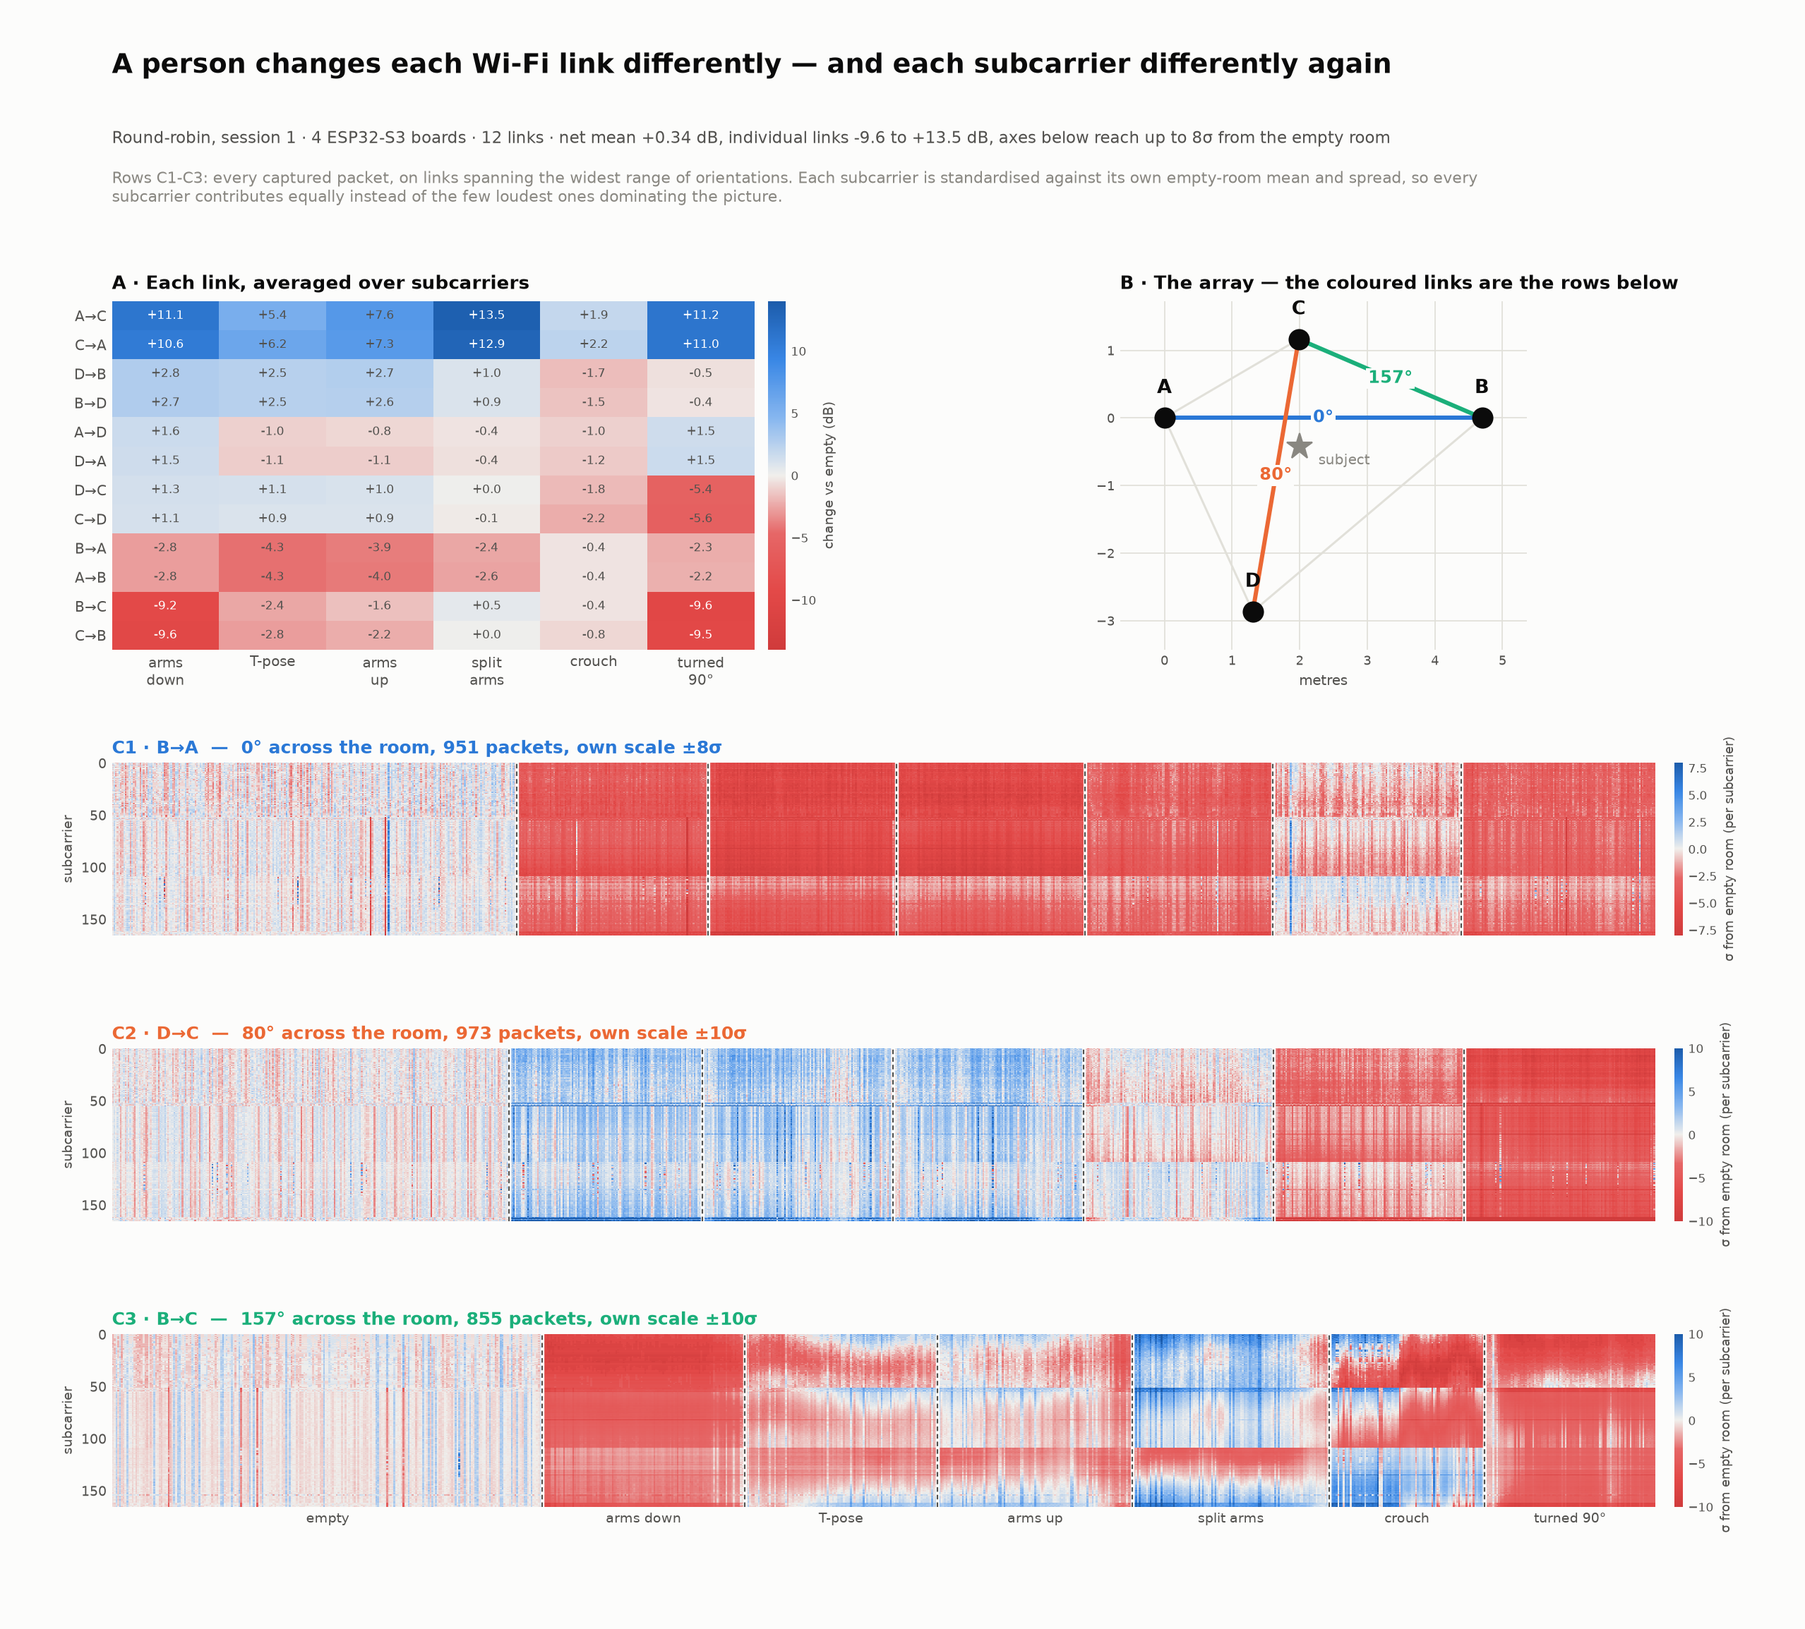
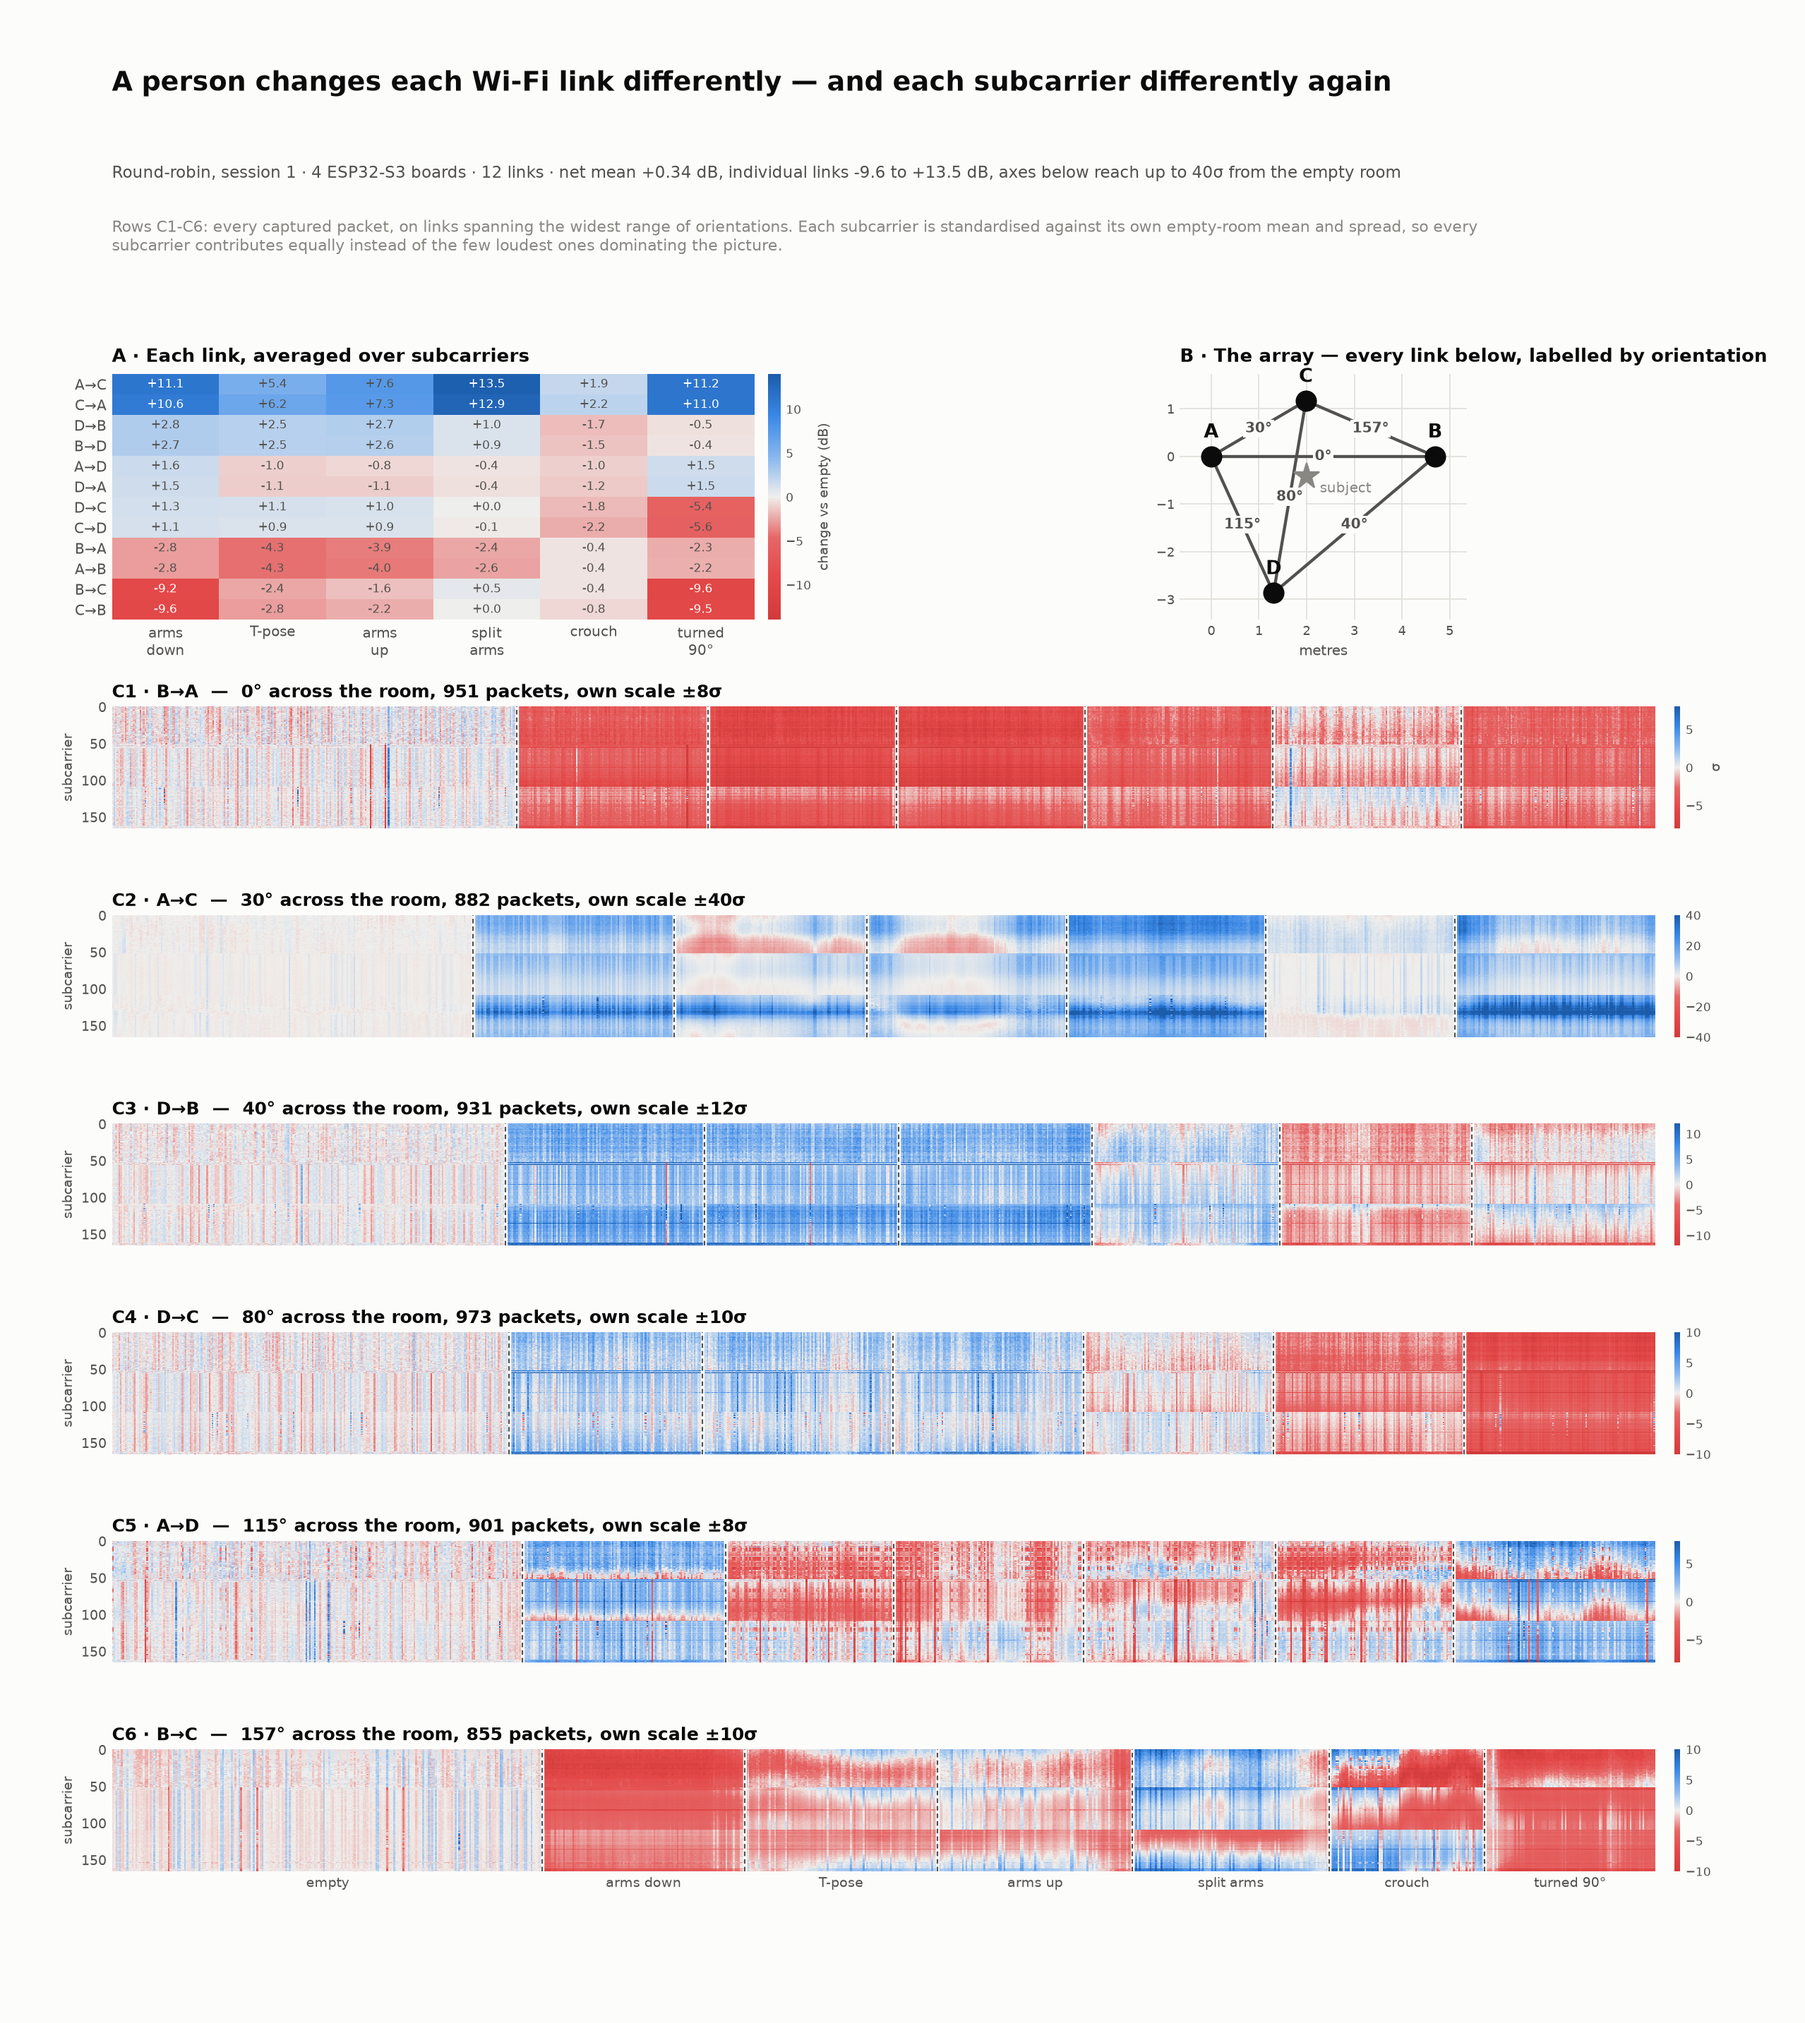
Detail figure: show every unique link, not a sample of three
Round-robin measures six distinct links (twelve directed, but reciprocal pairs
share an orientation), and showing three of them threw half the geometry away.
The number of waterfalls is now an option defaulting to all unique links, so a
round-robin capture yields six rows at 0, 30, 40, 80, 115 and 157 degrees while
a fixed-TX capture still yields the three its transmitter can reach.

Past three simultaneously-comparable series, hue would exceed the categorical
colour gate, so with six rows identity moves to the angle label and axis
position instead: the geometry panel labels every link by orientation and the
row titles carry the same numbers. Colour coding is retained when three or
fewer rows are shown.

Row height and spacing scale with the row count so six rows stay legible, and
the repeated colourbar label was dropped since each title already states its
own sigma scale.

diff --git a/esp-csi/examples/get-started/tools/plot_pose_detail.py b/esp-csi/examples/get-started/tools/plot_pose_detail.py
@@ -100,6 +100,8 @@ def main():
     ap.add_argument('--prefix', default='ps')
     ap.add_argument('--out', default='pose_detail.png')
     ap.add_argument('--title', default='Round-robin, session 1')
+    ap.add_argument('--axes', type=int, default=6,
+                    help='how many distinct link orientations to show (default: all unique links)')
     args = ap.parse_args()
 
     E = np.load(f'{args.prefix}_empty.npz')
@@ -132,7 +134,7 @@ def main():
     # ---- panel C data: one waterfall per major axis -----------------------
     # A single link only shows one viewing angle. Selecting links by orientation
     # and stacking them shows the same six poses seen from across the room.
-    axes_lks = pick_axes(lks_sorted, n=3)
+    axes_lks = pick_axes(lks_sorted, n=args.axes)
     waterfalls = []
     for lk in axes_lks:
         base = E[f'{lk}|a'].astype(float)
@@ -168,9 +170,15 @@ def main():
     print(f'  link-average limit +/-{lim:.1f} dB')
 
     nw = len(waterfalls)
-    fig = plt.figure(figsize=(16.5, 7.4 + 2.5 * nw), facecolor=SURFACE)
+    row_h = 2.5 if nw <= 3 else 1.85       # keep the sheet manageable with six rows
+    fig = plt.figure(figsize=(16.5, 7.4 + row_h * nw), facecolor=SURFACE)
+    # Hue only carries link identity while it stays within the categorical gate;
+    # past three simultaneously-comparable series, identity moves to the angle
+    # label and axis position instead of inventing more hues.
+    tint = CAT if nw <= len(CAT) else [INK] * nw
     gs = fig.add_gridspec(1 + nw, 2, height_ratios=[1.25] + [0.62] * nw,
-                          width_ratios=[1, 1.12], hspace=0.52, wspace=0.20,
+                          width_ratios=[1, 1.12],
+                          hspace=0.52 if nw <= 3 else 0.62, wspace=0.20,
                           left=0.062, right=0.945, top=0.815, bottom=0.075)
 
     # ================= panel A =================
@@ -202,15 +210,19 @@ def main():
         for b in list('ABCD')[i + 1:]:
             if a in COORDS and b in COORDS:
                 axg.plot(*zip(COORDS[a], COORDS[b]), color=GRID, lw=1.4, zorder=1)
-    for (W, _bounds, _lab, lname, ang), col in zip(waterfalls, CAT):
+    for (W, _bounds, _lab, lname, ang), col in zip(waterfalls, tint):
         a, b = lname.split('→')
         if a in COORDS and b in COORDS:
-            axg.plot(*zip(COORDS[a], COORDS[b]), color=col, lw=2.8, zorder=2)
+            axg.plot(*zip(COORDS[a], COORDS[b]),
+                     color=col if nw <= len(CAT) else INK_2,
+                     lw=2.8 if nw <= len(CAT) else 2.0, zorder=2)
             mx = (COORDS[a][0] + COORDS[b][0]) / 2
             my = (COORDS[a][1] + COORDS[b][1]) / 2
-            axg.text(mx, my, f'{ang:.0f}°', color=col, fontsize=11, fontweight='bold',
+            axg.text(mx, my, f'{ang:.0f}°',
+                     color=col if nw <= len(CAT) else INK_2,
+                     fontsize=11 if nw <= len(CAT) else 9.5, fontweight='bold',
                      ha='center', va='center',
-                     bbox=dict(fc=SURFACE, ec='none', pad=1.4), zorder=4)
+                     bbox=dict(fc=SURFACE, ec='none', pad=1.2), zorder=4)
     cx = np.mean([c[0] for c in COORDS.values()])
     cy = np.mean([c[1] for c in COORDS.values()])
     axg.plot(cx, cy, marker='*', ms=18, color=MUTED, zorder=3)
@@ -222,7 +234,7 @@ def main():
                  ha='center', va='bottom', zorder=5)
     axg.set_aspect('equal')
     axg.set_xlabel('metres', color=INK_2, fontsize=9.5)
-    axg.set_title('B · The array — the coloured links are the rows below',
+    axg.set_title('B · The array — every link below, labelled by orientation',
                   color=INK, fontsize=12, pad=8, loc='left', fontweight='bold')
     axg.tick_params(colors=INK_2, labelsize=8.5, length=0)
     for sp in axg.spines.values():
@@ -248,13 +260,13 @@ def main():
         axr.set_ylabel('subcarrier', color=INK_2, fontsize=9)
         axr.set_title(f'C{r + 1} · {lname}  —  {ang:.0f}° across the room, '
                       f'{W.shape[1]} packets, own scale ±{limR:.0f}σ',
-                      color=CAT[r % len(CAT)], fontsize=11.5, pad=6, loc='left',
+                      color=tint[r], fontsize=11.5, pad=6, loc='left',
                       fontweight='bold')
         axr.tick_params(colors=INK_2, length=0, labelsize=9)
         for sp in axr.spines.values():
             sp.set_visible(False)
         cb3 = fig.colorbar(im3, ax=axr, fraction=0.02, pad=0.012)
-        cb3.set_label('σ from empty room (per subcarrier)', color=INK_2, fontsize=8.5)
+        cb3.set_label('σ' if r == 0 else '', color=INK_2, fontsize=9)
         cb3.ax.tick_params(colors=INK_2, length=0, labelsize=8)
         cb3.outline.set_visible(False)
 
